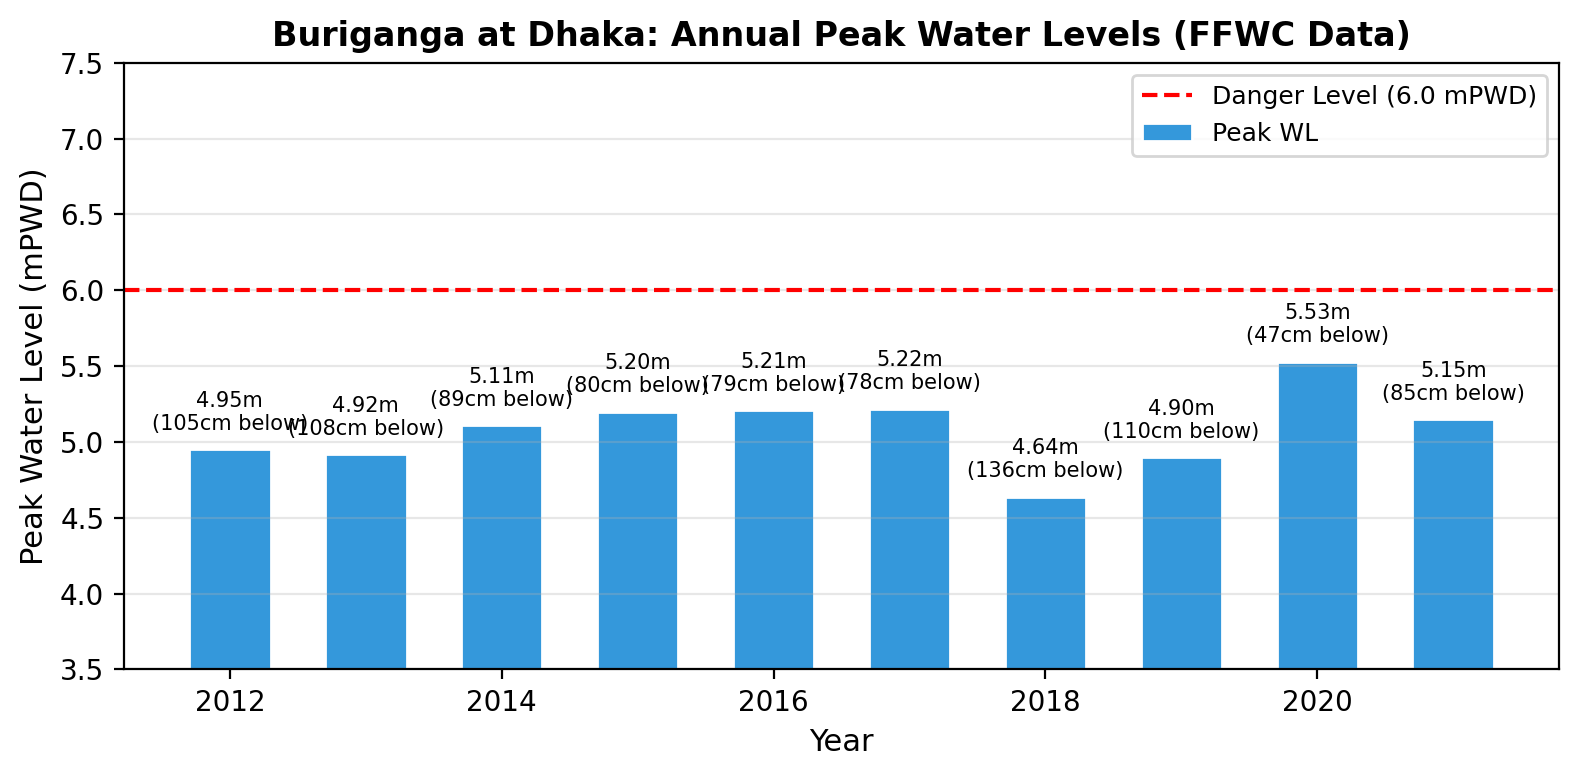
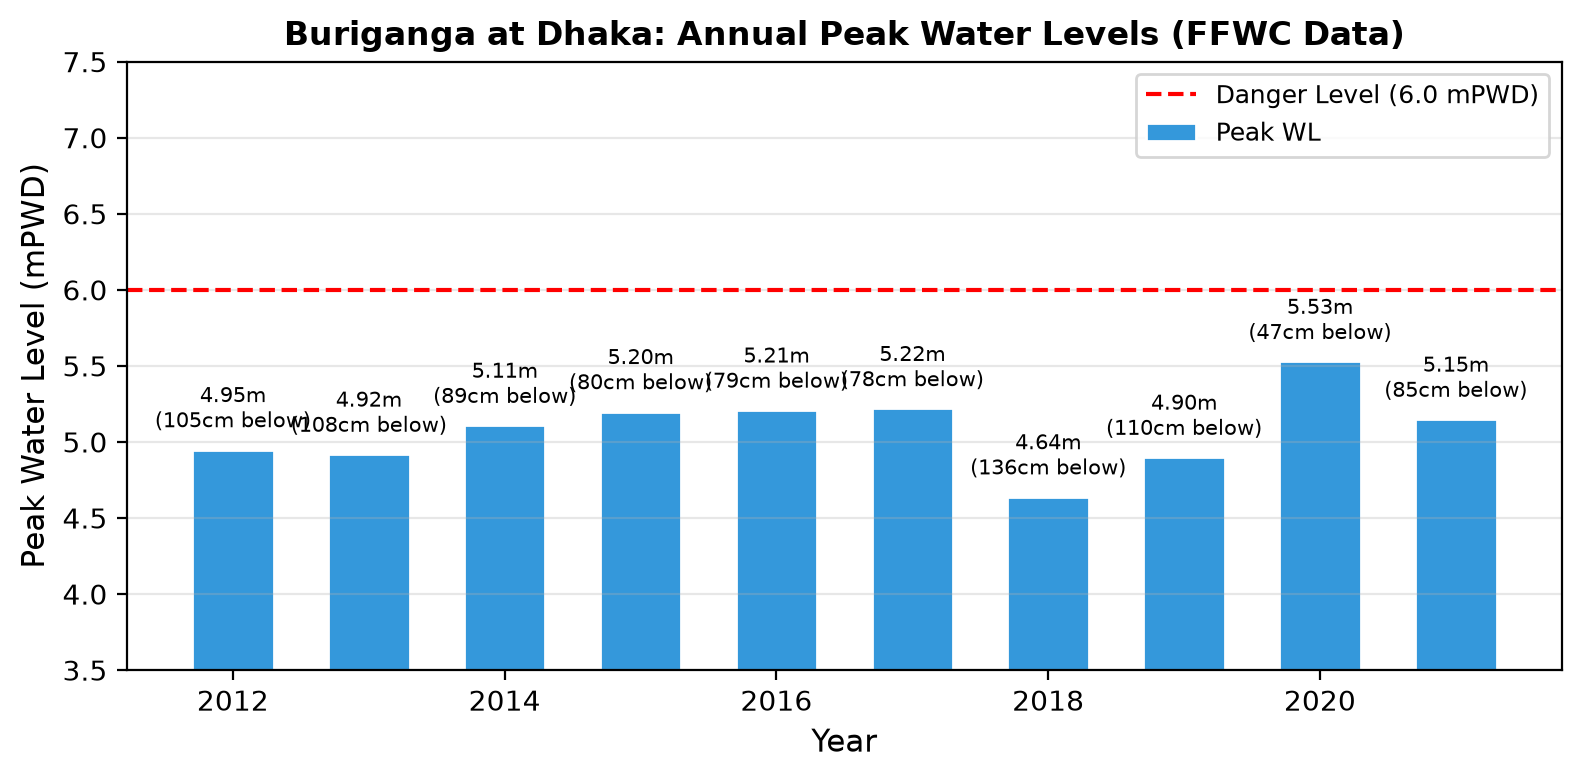
Fix Vmax cm/s->cm/h bug in generate_ffwc_plots.py + consistent temp norm
Bug: FFWC script converted rise rate cm/h->cm/s but kept V_MAX=5.0
as if cm/h, making RR 3600x too small. Fixed by removing the /3600
conversion (rise values are already in cm/h in the scenario data).

Also fixed inconsistent temperature normalization across all scripts:
piecewise thresholds (35/32/15 C) replaced with linear formula:
  T = clip(100 * (temp - 20) / 20, 0, 100)  # 20 C -> 0, 40 C -> 100
consistent with norm_temp() used in D1-D4 analysis scripts.

Regenerated: ffwc_risk_components.png, ffwc_historical_risk_bars.png,
ffwc_hypothetical_scenarios.csv (RR component now visible in figures)

diff --git a/Simulation_Data/scripts/generate_data.py b/Simulation_Data/scripts/generate_data.py
@@ -19,6 +19,59 @@ OUTPUT_DIR = os.path.dirname(os.path.abspath(__file__))
 DATASET_DIR = os.path.join(OUTPUT_DIR, "datasets")
 os.makedirs(DATASET_DIR, exist_ok=True)
 
+
+class LeastSquaresTrend:
+    """Ring-buffer least-squares slope estimator.
+       Maintains a window of recent water-level readings and computes
+       the smoothed slope (cm/h) via linear regression.
+       Includes a deadband threshold to reject sensor noise.
+       Matches the 'least-squares trend engine' described in the paper.
+    """
+    def __init__(self, window=40, min_slope_threshold=1.0):
+        self.window = window
+        self.min_slope = min_slope_threshold  # cm/h — below this treat as 0
+        self.buffer = []
+
+    def add(self, wl_cm, t_hours):
+        self.buffer.append((t_hours, wl_cm))
+        if len(self.buffer) > self.window:
+            self.buffer.pop(0)
+
+    def slope_cm_per_h(self):
+        """Returns smoothed slope in cm/h. Only positive slopes (rising water)
+           are considered flood-relevant; receding water returns 0.
+           Slopes below min_slope are treated as zero (noise deadband).
+           Requires minimum net water level rise over the window."""
+        n = len(self.buffer)
+        if n < 8:
+            return 0.0
+        
+        # Check the net water level change over the window
+        # If water hasn't risen at least 1.5cm, any trend is noise
+        first_wl = self.buffer[0][1]
+        last_wl = self.buffer[-1][1]
+        net_rise = last_wl - first_wl
+        if net_rise < 1.5:  # cm — below this, treat drift as noise
+            return 0.0
+        
+        sum_x = sum(x for x, _ in self.buffer)
+        sum_y = sum(y for _, y in self.buffer)
+        sum_xx = sum(x*x for x, _ in self.buffer)
+        sum_xy = sum(x*y for x, y in self.buffer)
+        denom = n * sum_xx - sum_x * sum_x
+        if abs(denom) < 1e-10:
+            return 0.0
+        slope = (n * sum_xy - sum_x * sum_y) / denom
+        slope_cmh = slope * 3600
+        
+        # Only rising water contributes to flood risk
+        if slope_cmh <= 0:
+            return 0.0
+        # Noise deadband
+        if slope_cmh < self.min_slope:
+            return 0.0
+        return slope_cmh
+
 # ===================================================================
 # SCENARIO DEFINITIONS (based on real Bangladesh flood patterns)
 # ===================================================================
@@ -152,19 +205,18 @@ def compute_risk_index(water_cm, rise_rate_cm_per_h, soil_pct, humidity_pct, tem
 
     # Rise rate score: normalized to 5 cm/h max
     V_MAX = 5.0  # cm/h
-    RR = min(100, max(0, 100 * abs(rise_rate_cm_per_h) / V_MAX))
+    # Rise rate only contributes when water is actively rising ABOVE safe baseline
+    # Below safe threshold, any rise rate is pre-flood and not yet hazardous
+    if water_cm <= D_SAFE:
+        RR = 0
+    else:
+        RR = min(100, max(0, 100 * rise_rate_cm_per_h / V_MAX))
 
     # Humidity score: 60% = 0, 95%+ = 100
     H = min(100, max(0, 100 * (humidity_pct - 60) / 35))
 
-    # Temperature score: simplified - extremes increase risk
-    T = 0
-    if temp_c > 35:
-        T = 100
-    elif temp_c > 32:
-        T = 50
-    elif temp_c < 15:
-        T = 30
+    # Temperature score: 20°C → 0, 40°C → 100
+    T = min(100, max(0, 100 * (temp_c - 20) / 20))
 
     R = 0.50 * W + 0.29 * S + 0.15 * RR + 0.03 * H + 0.03 * T
     return round(R, 1)
@@ -205,9 +257,9 @@ def generate_scenario(scenario_key, params):
     hum = params['humidity_pct']
     temp = params['temp_c']
 
-    # Rise rate components
+    # Rise rate via smoothed least-squares trend engine
+    trend = LeastSquaresTrend()  # window=40, min_slope=1.0 cm/h
     rise_rate_cm_per_h = 0.0
-    prev_wl = wl
 
     # Rain event timing
     rain_active = False
@@ -218,8 +270,10 @@ def generate_scenario(scenario_key, params):
         timestamp = f"T+{t_hours:06.2f}h"
 
         # Rain event
-        if params.get('has_rain_event') and params.get('rain_start_hour'):
-            if t_hours >= params['rain_start_hour'] and t_hours <= params['rain_start_hour'] + params.get('rain_duration_hours', 0):
+        if params.get('has_rain_event'):
+            rain_start = params.get('rain_start_hour', 0)
+            rain_dur = params.get('rain_duration_hours', 0)
+            if t_hours >= rain_start and t_hours <= rain_start + rain_dur:
                 rain_active = True
             else:
                 rain_active = False
@@ -243,9 +297,21 @@ def generate_scenario(scenario_key, params):
             wl = max(5, min(wl, params.get('max_water_cm', 50)))
         elif scenario_key == "coastal_storm_surge":
             if rain_active:
-                surge_peak = params.get('water_rise_rate_cm_per_h', 6.0) * math.sin(math.pi * t_hours / params.get('rain_duration_hours', 12))
-                wl += max(0, surge_peak * interval_s / 3600)
-            wl = max(5, min(wl + random.gauss(0, params['water_level_noise_cm']), params.get('max_water_cm', 45)))
+                # Storm surge: monotonic rise to peak over 4h, then sustained
+                surge_duration = 4.0
+                if t_hours <= surge_duration:
+                    # Start from base level, rise linearly to max
+                    target_wl = (params['water_level_base_cm'] + 
+                                (params.get('max_water_cm', 40) - params['water_level_base_cm']) * 
+                                (t_hours / surge_duration))
+                else:
+                    target_wl = params.get('max_water_cm', 40)
+                wl = target_wl + random.gauss(0, params['water_level_noise_cm'] * 0.3)
+            else:
+                # Recession
+                wl -= 0.8 * interval_s / 3600
+                wl = max(params['water_level_base_cm'], wl + random.gauss(0, params['water_level_noise_cm'] * 0.2))
+            wl = max(5, min(wl, params.get('max_water_cm', 45)))
         elif scenario_key == "urban_drain_overload":
             tidal = 3.0 * math.sin(2 * math.pi * t_hours / 12.4)
             if rain_active:
@@ -268,9 +334,9 @@ def generate_scenario(scenario_key, params):
         else:
             hum = max(params['humidity_pct'], hum - 0.1)
 
-        # Rise rate calculation (convert to cm/h for normalization)
-        rise_rate_cm_per_h = (wl - prev_wl) / interval_s * 3600 if interval_s > 0 else 0
-        prev_wl = wl
+        # Rise rate via smoothed least-squares trend engine
+        trend.add(wl, t_hours)
+        rise_rate_cm_per_h = trend.slope_cm_per_h()
 
         # Compute risk index
         risk = compute_risk_index(wl, rise_rate_cm_per_h, soil, hum, temp)
@@ -400,15 +466,14 @@ if __name__ == "__main__":
     generate_all()
     print(f"\nDataset directory: {DATASET_DIR}")
 
-    # Print quick summary
+    # Print quick summary from the analysis file
     print("\n" + "="*65)
     print("SCENARIO SUMMARY")
     print("="*65)
-    for key in SCENARIOS:
-        samples = generate_scenario(key, SCENARIOS[key])
-        summary = compute_summary(samples)
-        analysis = analyze_scenario(samples, SCENARIOS[key])
-        print(f"\n{SCENARIOS[key]['name']}")
+    for key, params in SCENARIOS.items():
+        summary = compute_summary(generate_scenario(key, params))
+        analysis = analyze_scenario(generate_scenario(key, params), params)
+        print(f"\n{params['name']}")
         print(f"  Samples: {summary['samples']}")
         print(f"  Risk range: {summary['risk_min']} -> {summary['risk_max']} (avg: {summary['risk_avg']})")
         print(f"  Alert distribution: {summary['tier_counts']}")

diff --git a/Simulation_Data/scripts/generate_ffwc_plots.py b/Simulation_Data/scripts/generate_ffwc_plots.py
@@ -49,14 +49,10 @@ def compute_risk(water_cm, rise_cmh, soil, hum, temp=28):
     elif water_cm >= D_EVAC: W = 100
     else: W = 100 * (water_cm - D_SAFE) / (D_EVAC - D_SAFE)
     S = min(100, max(0, soil))
-    rise_cms = rise_cmh / 3600
-    V_MAX = 5.0
-    RR = min(100, max(0, 100 * abs(rise_cms) / V_MAX))
+    V_MAX = 5.0  # cm/h
+    RR = min(100, max(0, 100 * rise_cmh / V_MAX))
     H = min(100, max(0, 100 * (hum - 60) / 35))
-    T = 0
-    if temp > 35: T = 100
-    elif temp > 32: T = 50
-    elif temp < 15: T = 30
+    T = min(100, max(0, 100 * (temp - 20) / 20))
     R = 0.50 * W + 0.29 * S + 0.15 * RR + 0.03 * H + 0.03 * T
     return round(R, 1)
 
@@ -134,8 +130,7 @@ def make_component_breakdown():
         elif wl >= D_EVAC: W = 100
         else: W = 100 * (wl - D_SAFE) / (D_EVAC - D_SAFE)
         S = min(100, max(0, soil))
-        rise_cms = rise / 3600
-        RR = min(100, max(0, 100 * abs(rise_cms) / 5.0))
+        RR = min(100, max(0, 100 * rise / 5.0))
         H = min(100, max(0, 100 * (hum - 60) / 35))
         
         w_scores.append(W * 0.50)